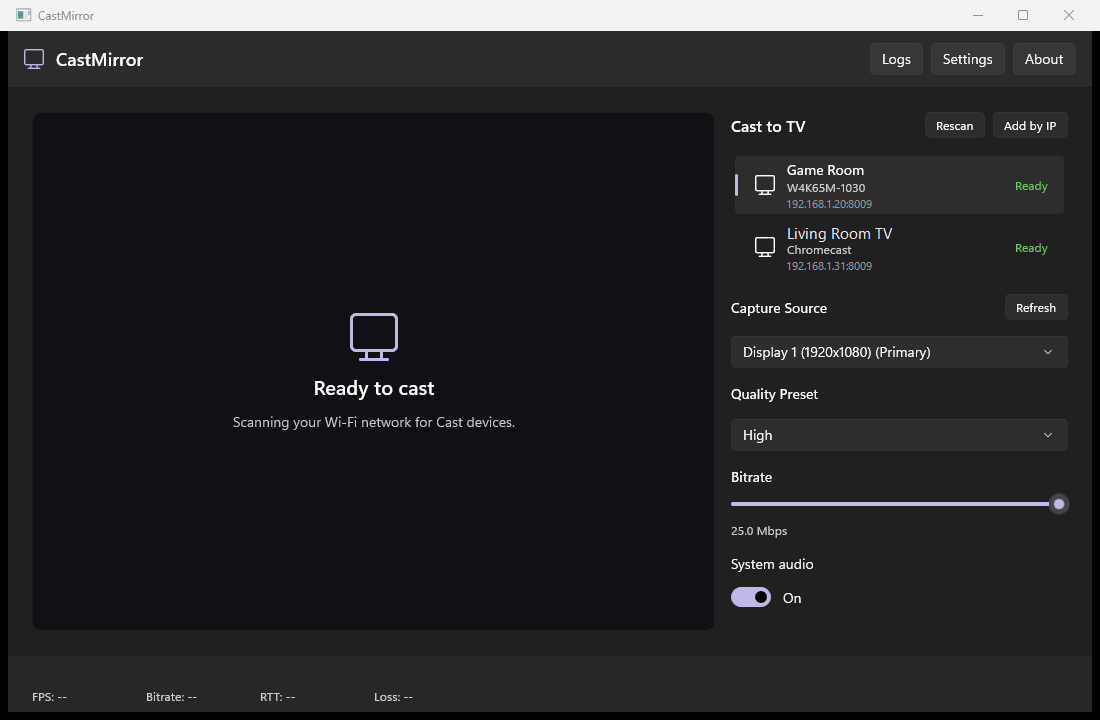
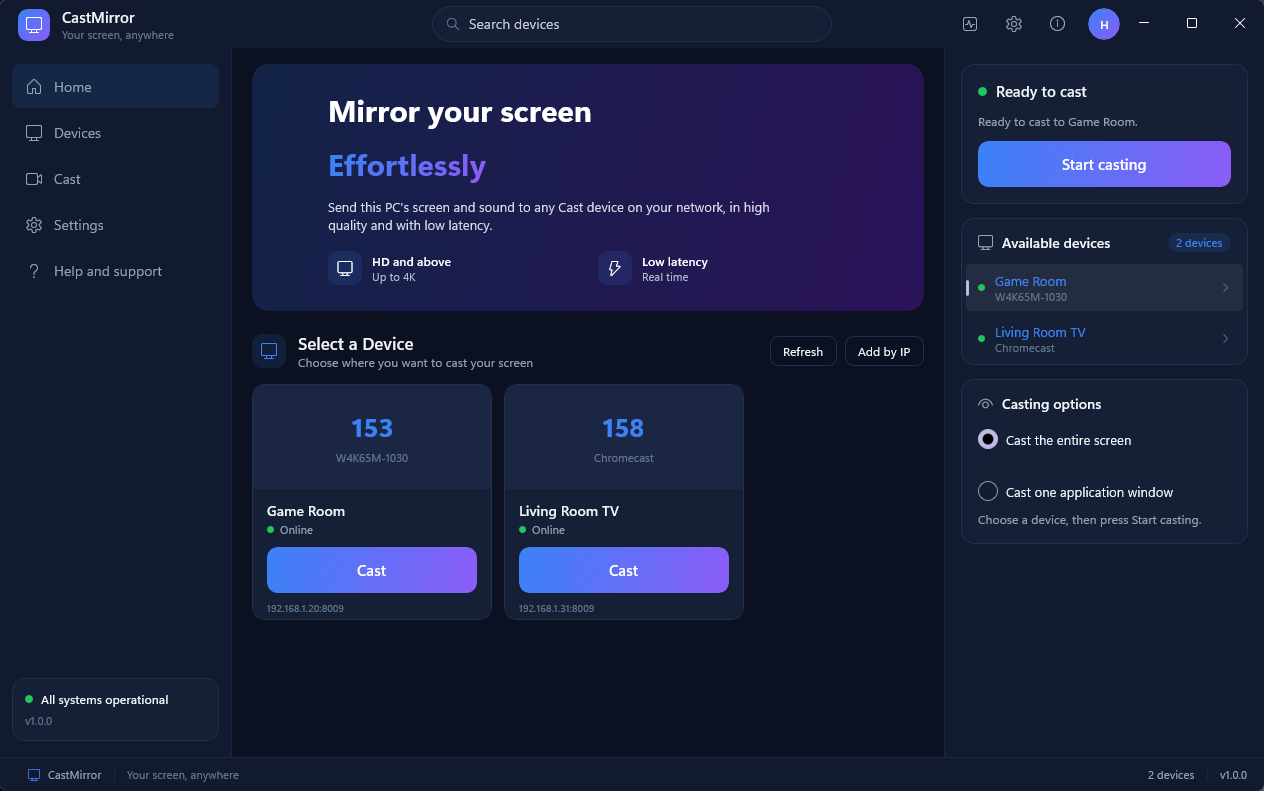
docs: retake the Windows screenshots and bring the docs up to the new shell
Both Windows screenshots show the redesigned app with placeholder devices, at
1280x800 for the main window. README, the site and its tab switcher use new alt
text and captions, and the usage steps name the controls as they are now (Refresh,
Casting options, Start casting, Ctrl+K search).

ARCHITECTURE.md describes the Windows shell, which it never covered. CONTRIBUTING
points at the App.xaml tokens and shared styles, and the PR template asks for the
Windows smoke test. count_tests.py refreshed the case counts (214 to 230, 29 files)
after the new core tests, and the Windows run count in TEST_REPORT follows from it.

diff --git a/docs/index.html b/docs/index.html
@@ -48,7 +48,7 @@
       </div>
       <div class="strip" style="margin-top: 8px;">
         <span class="chip">⏱ <strong>~200 ms</strong> Target Playout</span>
-        <span class="chip">🧪 <strong><!-- testcount -->214<!-- /testcount --></strong> Test Cases</span>
+        <span class="chip">🧪 <strong><!-- testcount -->230<!-- /testcount --></strong> Test Cases</span>
         <span class="chip">⚡ <strong>GPU</strong> H.264 encode</span>
       </div>
     </div>
@@ -61,10 +61,10 @@
         <button class="showcase-tab-btn" data-tab="linuxcast" type="button">Linux</button>
       </div>
       <div class="bezel">
-        <img id="showcase-img" src="assets/screenshot-windows-main.png" alt="CastMirror on Windows: two Cast devices, the capture source, quality preset and bitrate controls">
+        <img id="showcase-img" src="assets/screenshot-windows-main.png" alt="CastMirror on Windows: a navigation rail, two Cast devices as cards, and a casting panel with Start casting and the casting options">
       </div>
       <div class="showcase-caption" id="showcase-caption">
-        Windows: pick a TV, pick a display or window, choose a preset, and press Cast.
+        Windows: pick a TV, choose the entire screen or one window, and press Start casting.
       </div>
     </div>
   </header>
@@ -233,7 +233,7 @@ cmake --build build -j"12"</pre>
                 <tbody>
                   <tr><td><code>build/app/castmirror-gui</code></td><td>Modern GTK 4 + Libadwaita desktop graphical application</td></tr>
                   <tr><td><code>build/app/castmirror</code></td><td>Interactive and non-interactive command-line interface</td></tr>
-                  <tr><td><code>build/tests/castmirror_tests</code></td><td>Full Google Test test suite (<!-- testcount -->214<!-- /testcount --> tests)</td></tr>
+                  <tr><td><code>build/tests/castmirror_tests</code></td><td>Full Google Test test suite (<!-- testcount -->230<!-- /testcount --> tests)</td></tr>
                   <tr><td><code>build/tools/poc-*</code></td><td>Protocol, encoding, and transport benchmark tools</td></tr>
                   <tr><td><code>build/tools/fake-receiver</code></td><td>Automated simulated Cast receiver for local loopback verification</td></tr>
                 </tbody>
@@ -409,7 +409,7 @@ Bytes 5-6: Max Packet ID (total packet count - 1)</pre>
             </div>
             <p>The suite covers unit tests, integration tests, network impairments and a simulated receiver that speaks TLS and Cast RTP over loopback. CI runs it on Windows and on Ubuntu (Release, ASan and UBSan, TSan) and Fedora.</p>
 
-            <h4>Test Suite Status (<!-- testcount -->214<!-- /testcount --> cases; generated by <code>scripts/count_tests.py</code>)</h4>
+            <h4>Test Suite Status (<!-- testcount -->230<!-- /testcount --> cases; generated by <code>scripts/count_tests.py</code>)</h4>
             <div class="doc-table-wrap">
               <table class="doc-table">
                 <thead>
@@ -423,13 +423,13 @@ Bytes 5-6: Max Packet ID (total packet count - 1)</pre>
                     <tr><td><code>test_offer_answer.cc</code></td><td>5 tests</td><td>Passed</td><td>OFFER JSON, ANSWER parsing, custom audio bitrate, status query</td></tr>
                     <tr><td><code>test_crypto.cc</code></td><td>2 tests</td><td>Passed</td><td>AES-128-CTR round-trip, per-frame ciphertext variance</td></tr>
                     <tr><td><code>test_rtp_rtcp.cc</code></td><td>11 tests</td><td>Passed</td><td>7-byte Cast RTP header, MTU slicing, CAST/CST2 feedback, checkpoint expansion</td></tr>
-                    <tr><td><code>test_adaptive.cc</code></td><td>17 tests</td><td>Passed</td><td>Loss downshifts, RTT/jitter delay scaling, bitrate ramp-up, cooldown</td></tr>
-                    <tr><td><code>test_encoders.cc</code></td><td>17 tests</td><td>Passed</td><td>H.264 Annex-B output, Reconfigure, multi-slice, intra-refresh, Opus cadence</td></tr>
-                    <tr><td><code>test_cast_e2e.cc</code></td><td>12 tests</td><td>Passed</td><td>Full TLS + OFFER/ANSWER + media streaming + Stop against the simulated receiver</td></tr>
+                    <tr><td><code>test_adaptive.cc</code></td><td>19 tests</td><td>Passed</td><td>Loss downshifts, RTT/jitter delay scaling, bitrate ramp-up, cooldown</td></tr>
+                    <tr><td><code>test_encoders.cc</code></td><td>19 tests</td><td>Passed</td><td>H.264 Annex-B output, Reconfigure, multi-slice, intra-refresh, Opus cadence</td></tr>
+                    <tr><td><code>test_cast_e2e.cc</code></td><td>13 tests</td><td>Passed</td><td>Full TLS + OFFER/ANSWER + media streaming + Stop against the simulated receiver</td></tr>
                     <tr><td><code>test_device_selection.cc</code></td><td>2 tests</td><td>Passed</td><td>Last-device resolution by id then IP, display index</td></tr>
                     <tr><td><code>test_logger.cc</code></td><td>2 tests</td><td>Passed</td><td>Severity filter, callback delivery</td></tr>
                     <tr><td><code>test_display_capture.cc</code></td><td>13 tests</td><td>Passed</td><td>Synthetic/X11 enumerate and start, DMA-BUF metadata, WGC pacing (`_WIN32` only)</td></tr>
-                    <tr><td><code>test_frame_pacer.cc</code></td><td>10 tests</td><td>Passed</td><td>Frame pacing cadence</td></tr>
+                    <tr><td><code>test_frame_pacer.cc</code></td><td>14 tests</td><td>Passed</td><td>Frame pacing cadence</td></tr>
                     <tr><td><code>test_session_recovery.cc</code></td><td>3 tests</td><td>Passed</td><td>Recovery state and the 30 s timeout ceiling</td></tr>
                     <tr><td><code>test_cast_transport.cc</code></td><td>10 tests</td><td>Passed</td><td>RTCP source filter, rolling FPS, duplicate-NACK suppression, pacing</td></tr>
                     <tr><td><code>test_capture_source.cc</code></td><td>9 tests</td><td>Passed</td><td>CaptureSource kind round-trip, config v2 to v3 migration, legacy Start forwarding</td></tr>
@@ -444,8 +444,9 @@ Bytes 5-6: Max Packet ID (total packet count - 1)</pre>
                     <tr><td><code>test_parser_robustness.cc</code></td><td>4 tests</td><td>Passed</td><td></td></tr>
                     <tr><td><code>test_audio_sessions.cc</code></td><td>5 tests</td><td>Passed</td><td></td></tr>
                     <tr><td><code>test_window_capture.cc</code></td><td>5 tests</td><td>Passed</td><td></td></tr>
-                    <tr><td><code>test_audio_capture.cc</code></td><td>10 tests</td><td>Passed</td><td>10 ms cadence, monotonic timestamps, join-or-detach worker cleanup</td></tr>
-                    <tr><td><strong>Total</strong></td><td><strong><!-- testcount -->214<!-- /testcount --></strong></td><td>Passed</td><td>28 files registered in <code>tests/CMakeLists.txt</code></td></tr>
+                    <tr><td><code>test_audio_capture.cc</code></td><td>12 tests</td><td>Passed</td><td>10 ms cadence, monotonic timestamps, join-or-detach worker cleanup</td></tr>
+                    <tr><td><code>test_wgc_window_source.cc</code></td><td>5 tests</td><td>Passed</td><td></td></tr>
+                    <tr><td><strong>Total</strong></td><td><strong><!-- testcount -->230<!-- /testcount --></strong></td><td>Passed</td><td>29 files registered in <code>tests/CMakeLists.txt</code></td></tr>
 <!-- testsuite:end -->
                   </tbody>
               </table>

diff --git a/docs/site.js b/docs/site.js
@@ -45,12 +45,12 @@
   const showcaseData = {
     winmain: {
       src: "assets/screenshot-windows-main.png",
-      alt: "CastMirror on Windows: two Cast devices, the capture source, quality preset and bitrate controls",
-      caption: "Windows: pick a TV, pick a display or window, choose a preset, and press Cast."
+      alt: "CastMirror on Windows: a navigation rail, two Cast devices as cards, and a casting panel with Start casting and the casting options",
+      caption: "Windows: pick a TV, choose the entire screen or one window, and press Start casting."
     },
     winsettings: {
       src: "assets/screenshot-windows-settings.png",
-      alt: "CastMirror settings on Windows",
+      alt: "CastMirror settings on Windows: expandable groups for picture, audio, latency, discovery, desktop integration, appearance and diagnostics, with Audio open",
       caption: "Windows settings: audio source, reconnect window, shortcuts, start at sign-in and discovery."
     },
     linuxcast: {

diff --git a/docs/TEST_REPORT.md b/docs/TEST_REPORT.md
@@ -2,15 +2,15 @@
 
 **Date:** 2026-09-02  
 **Target:** CastMirror v1.0.0 (`castcore` + GTK 4 GUI + CLI + Tools)  
-**Test Suite:** Google Test + CTest (<!-- testcount -->214<!-- /testcount --> cases) + Phase 0 Benchmarks + End-to-End Simulated Receiver  
+**Test Suite:** Google Test + CTest (<!-- testcount -->230<!-- /testcount --> cases) + Phase 0 Benchmarks + End-to-End Simulated Receiver  
 
 ---
 
 ## 1. Executive Summary
 
 All phases of the CastMirror implementation plan defined in `ARCHITECTURE.md` have been executed and verified:
-- **Unit & Integration Tests:** <!-- testcount -->214<!-- /testcount --> test cases, counted from the `TEST(`/`TEST_F(` macros in the sources registered in `tests/CMakeLists.txt`. The per-suite table below is generated by `python3 scripts/count_tests.py`; run `cd build && ctest --output-on-failure` for the live pass/fail list.
-  - **Registered vs. counted is not the same number, by design.** `count_tests.py` counts macros in the source list; `ctest` reports the cases `gtest_discover_tests` actually registered on *this* platform. On Windows, `tests/CMakeLists.txt` removes `test_portal_source.cc` (`list(REMOVE_ITEM TEST_SOURCES ...)`) because there is no Wayland portal, so **179** cases run instead of 182. The three portal cases are Linux-only, not missing. Two X11 cases additionally report `Skipped` on a headless Windows runner, which is a pass, not a failure.
+- **Unit & Integration Tests:** <!-- testcount -->230<!-- /testcount --> test cases, counted from the `TEST(`/`TEST_F(` macros in the sources registered in `tests/CMakeLists.txt`. The per-suite table below is generated by `python3 scripts/count_tests.py`; run `cd build && ctest --output-on-failure` for the live pass/fail list.
+  - **Registered vs. counted is not the same number, by design.** `count_tests.py` counts macros in the source list; `ctest` reports the cases `gtest_discover_tests` actually registered on *this* platform. On Windows, `tests/CMakeLists.txt` removes `test_portal_source.cc` (`list(REMOVE_ITEM TEST_SOURCES ...)`) because there is no Wayland portal, so **227** cases run instead of 230. The three portal cases are Linux-only, not missing. Two X11 cases additionally report `Skipped` on a headless Windows runner, which is a pass, not a failure.
 - **Latency Budget:** (historical lab measurements — see the note below the table)
   - 1080p60 Video Encode Latency: **9.74 ms - 12.48 ms** (Budget <= 16.6 ms) -> **PASSED**
   - Playout Teardown & Stop Latency: **93.6 ms - 121.6 ms** (Budget <= 500 ms) -> **PASSED**
@@ -63,13 +63,13 @@ What this run did not cover, and why it matters:
 | `test_offer_answer.cc` | 5 | OFFER JSON, ANSWER parsing, custom audio bitrate, status query |
 | `test_crypto.cc` | 2 | AES-128-CTR round-trip, per-frame ciphertext variance |
 | `test_rtp_rtcp.cc` | 11 | 7-byte Cast RTP header, MTU slicing, CAST/CST2 feedback, checkpoint expansion |
-| `test_adaptive.cc` | 17 | Loss downshifts, RTT/jitter delay scaling, bitrate ramp-up, cooldown |
-| `test_encoders.cc` | 17 | H.264 Annex-B output, Reconfigure, multi-slice, intra-refresh, Opus cadence |
-| `test_cast_e2e.cc` | 12 | Full TLS + OFFER/ANSWER + media streaming + Stop against the simulated receiver |
+| `test_adaptive.cc` | 19 | Loss downshifts, RTT/jitter delay scaling, bitrate ramp-up, cooldown |
+| `test_encoders.cc` | 19 | H.264 Annex-B output, Reconfigure, multi-slice, intra-refresh, Opus cadence |
+| `test_cast_e2e.cc` | 13 | Full TLS + OFFER/ANSWER + media streaming + Stop against the simulated receiver |
 | `test_device_selection.cc` | 2 | Last-device resolution by id then IP, display index |
 | `test_logger.cc` | 2 | Severity filter, callback delivery |
 | `test_display_capture.cc` | 13 | Synthetic/X11 enumerate and start, DMA-BUF metadata, WGC pacing (`_WIN32` only) |
-| `test_frame_pacer.cc` | 10 | Frame pacing cadence |
+| `test_frame_pacer.cc` | 14 | Frame pacing cadence |
 | `test_session_recovery.cc` | 3 | Recovery state and the 30 s timeout ceiling |
 | `test_cast_transport.cc` | 10 | RTCP source filter, rolling FPS, duplicate-NACK suppression, pacing |
 | `test_capture_source.cc` | 9 | CaptureSource kind round-trip, config v2 to v3 migration, legacy Start forwarding |
@@ -84,8 +84,9 @@ What this run did not cover, and why it matters:
 | `test_parser_robustness.cc` | 4 |  |
 | `test_audio_sessions.cc` | 5 |  |
 | `test_window_capture.cc` | 5 |  |
-| `test_audio_capture.cc` | 10 | 10 ms cadence, monotonic timestamps, join-or-detach worker cleanup |
-| **Total** | <!-- testcount -->214<!-- /testcount --> | 28 files registered in `tests/CMakeLists.txt` |
+| `test_audio_capture.cc` | 12 | 10 ms cadence, monotonic timestamps, join-or-detach worker cleanup |
+| `test_wgc_window_source.cc` | 5 |  |
+| **Total** | <!-- testcount -->230<!-- /testcount --> | 29 files registered in `tests/CMakeLists.txt` |
 <!-- testsuite:end -->
 
 ---

diff --git a/docs/ARCHITECTURE.md b/docs/ARCHITECTURE.md
@@ -232,7 +232,17 @@ Maintain: `Online`, `Idle`, `Busy` (another app casting), `Unavailable`. Do not 
 
 ## 9. UI/UX and application state
 
-**Layout & Navigation:**
+**Windows shell (`app/winui`):**
+One window with a custom title bar, a navigation rail, a content column and a casting rail, over a status bar:
+- **Title bar:** the brand, a device search field (Ctrl+K) that filters every device list, buttons for Logs, Settings and About, and a monogram chip. The system caption buttons are drawn over the right end of the bar, so the bar is 48 DIP tall to match them and the controls stop short of their inset.
+- **Navigation rail:** Home, Devices, Cast, Settings and Help and support, with the selected entry marked by a pill, and a status card with the version at the bottom. Settings opens its own window; the rail entry says so.
+- **Content column:** the section the rail selects. Home has the hero banner and a card per device. Devices is the full list. Cast holds the capture source, quality preset, bitrate and system audio, plus Freeze and Mute while live. Help lists the first things to try.
+- **Casting rail:** session status with the Start casting, Stop casting or Disconnect button, the device list, and **Casting options**: the entire screen or one application window. Choosing a window shows a picker; the radio, the picker and the Cast page source list all follow the view model's selected source.
+- **Status bar:** device count and version, plus the stream quality line while a cast runs.
+
+Colours and shared shapes are tokens in `App.xaml` (the `Shell*` brushes, `ShellCardStyle`, the button and list styles) with dark, light and high-contrast values, so the shell stays legible in every scheme. `MainViewModel` holds all state and the XAML binds to it with `x:Bind`. Settings and Logs are separate windows.
+
+**Linux layout and navigation (GTK):**
 The application is organized into four dedicated tabs powered by `AdwViewStack`, with an adaptive `AdwViewSwitcherTitle` in the header bar and an `AdwViewSwitcherBar` in the bottom bar with an `AdwBreakpoint` for narrow window widths (≤ 680px):
 - **Cast:** LAN receiver list with model glyphs (Google TV Streamer, Nest Hub, custom IP), display monitor or application window selector (with live desktop app icon resolution), quality preset cards (Auto, High, Balanced, Smooth), inline bitrate slider, and primary Cast Display action button.
 - **Live session:** Real-time streaming status banner, hardware-accelerated Cairo vector sparklines (FPS, Bitrate, RTT, Packet Loss), dynamic adaptive ladder rung indicators, and live studio controls (Freeze display, Mute TV audio with silence injection).
@@ -318,7 +328,7 @@ Heartbeat miss → reconnect. Never leave a zombie capture.
 
 ## 14. Testing strategy
 
-- **Unit & Integration:** Google Test (`castmirror_tests`, <!-- testcount -->214<!-- /testcount --> test cases) and CTest. The number is generated from the `TEST(`/`TEST_F(` macros by `python3 scripts/count_tests.py`.
+- **Unit & Integration:** Google Test (`castmirror_tests`, <!-- testcount -->230<!-- /testcount --> test cases) and CTest. The number is generated from the `TEST(`/`TEST_F(` macros by `python3 scripts/count_tests.py`.
 - **Network Simulation:** Linux Traffic Control (`scripts/simulate_network.sh` using `tc qdisc netem`) for packet loss, latency jitter, and packet reordering.
 - **Benchmarks:** `tools/poc-encode`, `tools/poc-join`, and `scripts/bench_baseline.sh` recording CSV baselines in `docs/bench/baseline.csv`.
 - **Simulated Receiver:** `tools/fake-receiver` for zero-hardware automated E2E testing of the TLS handshake, OFFER/ANSWER negotiation, Cast RTP packet handling, and clean session teardown.

diff --git a/CONTRIBUTING.md b/CONTRIBUTING.md
@@ -23,6 +23,7 @@ The Windows app is the primary product. Linux builds get fixes, not new features
 - **Changing the C API?** Bump the ABI version in `c_api.h`, update the struct mirrors and the `VerifyNativeAbi` check in `CastCoreBridge.cs`, and rebuild both sides together.
 - **New setting?** Add the key in three places: `core/include/castcore/config.h` and `config.cc` (load and save), `core/src/c_api.cc` (get and set JSON), and `CastMirrorSettings` in `Services/SettingsService.cs`. Unknown keys are ignored, so a client and engine from different builds still talk.
 - **Dialogs** go through `Services/Dialogs.cs`, which applies the forced theme and prevents two dialogs at once.
+- **Layout and colour** come from `App.xaml`: the `Shell*` brushes and the shared styles (`ShellCardStyle`, `FlushListItemStyle`, the button styles). Don't hard-code a colour or an inset in a view. Check the window in dark, light and high contrast, and line new controls up with the 16 px card inset the existing cards use.
 - **Buttons that change colour** need a template-safe style (override the `ButtonBackground*` resources) rather than a code-set `Background`, which hover and pressed states overwrite.
 - **User-facing text** is plain and specific. Say what happened and what to do. No filler, no "seamless", no exclamation marks. Read new strings aloud before you commit them.
 - **Translations.** English is the source text, in the XAML and in `Localizer.T(...)` calls. `app\winui\Strings\translations.tsv` holds one row per string (English, es, de, fr); edit it and run `scripts\build_translations.ps1` to regenerate the JSON files. A missing translation shows the English text. New UI text needs a row in every language, and `tests\winui` fails if a XAML string has none or a row matches nothing. To add a language, add a column and its code to the script. Check longer languages (German) for clipped text; let headings wrap.
@@ -64,7 +65,7 @@ Use the PR template. Include:
 
 - Why the change exists
 - How you verified it (`ctest`, GUI, real Cast device)
-- Screenshots for GUI layout or copy changes
+- Screenshots for GUI layout or copy changes. The Windows ones in `docs/assets` show a 1280x800 window with placeholder device names, so retake them when the layout moves
 
 ## Protocol work
 

diff --git a/README.md b/README.md
@@ -20,7 +20,7 @@
 </p>
 
 <p align="center">
-  <img src="docs/assets/screenshot-windows-main.png" width="760" alt="CastMirror main window listing two Cast devices, with the capture source, quality preset and bitrate controls">
+  <img src="docs/assets/screenshot-windows-main.png" width="760" alt="CastMirror on Windows: a navigation rail, two Cast devices as cards, and a casting panel with Start casting and the casting options">
 </p>
 
 ## Install
@@ -35,9 +35,9 @@ CastMirror needs Windows 10 version 2004 or later, 64-bit. Checksums for every d
 
 ## Use it
 
-1. Pick your TV from the list. If it doesn't appear, press **Rescan** (F5) or use **Add by IP**.
-2. Pick what to share: a whole display or a single window.
-3. Choose a quality preset and press **Cast display** (Ctrl+Enter).
+1. Pick your TV from the device cards on Home, or from the list in the casting panel. If it doesn't appear, press **Refresh** (F5) or use **Add by IP**. **Ctrl+K** searches the list.
+2. Under **Casting options**, pick what to share: the entire screen, or one application window. For a window, choose it from the list that appears.
+3. Choose a quality preset on the **Cast** page, then press **Start casting** (Ctrl+Enter) or **Cast** on a device card.
 
 While casting you can freeze the picture, mute the TV, and change the bitrate without restarting. Closing the window keeps the cast running in the tray. Quit from the tray icon.
 
@@ -52,7 +52,7 @@ While casting you can freeze the picture, mute the TV, and change the bitrate wi
 
 ### Keyboard shortcuts
 
-In the window: **Ctrl+Enter** start or stop, **F5** rescan, **Ctrl+,** settings, **Ctrl+L** logs.
+In the window: **Ctrl+Enter** start or stop, **F5** refresh devices, **Ctrl+K** search devices, **Ctrl+,** settings, **Ctrl+L** logs.
 
 Optional system-wide shortcuts (Settings, Desktop integration, Global shortcuts): **Ctrl+Alt+C** start or stop, **Ctrl+Alt+F** freeze, **Ctrl+Alt+M** mute the TV.
 

diff --git a/.github/PULL_REQUEST_TEMPLATE.md b/.github/PULL_REQUEST_TEMPLATE.md
@@ -6,7 +6,8 @@
 
 - [ ] `cmake --build build` succeeds
 - [ ] `ctest --output-on-failure` in `build/`
-- [ ] GUI change verified with `./build/app/castmirror-gui` (screenshot if layout/copy changed)
+- [ ] Windows UI change verified with `scripts\smoke_winui.ps1` and by eye in light and dark (screenshot if layout/copy changed)
+- [ ] Linux GUI change verified with `./build/app/castmirror-gui`, or N/A
 - [ ] Real Cast device tested, or N/A because the change cannot affect a session
 
 ## Notes
